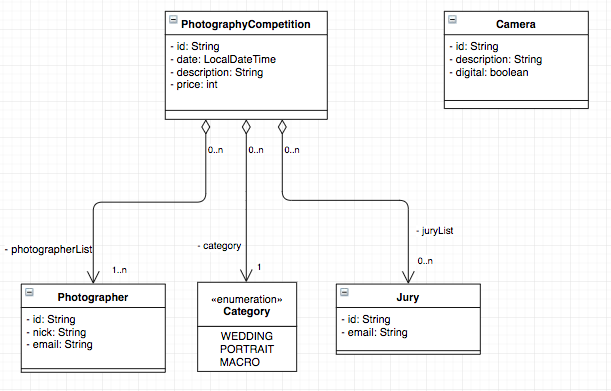
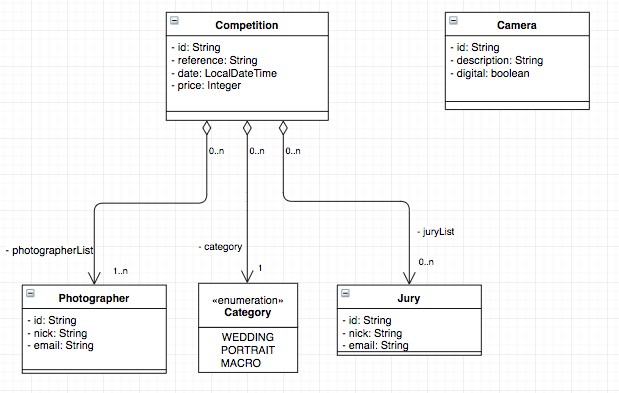
updated diagram inheritance

diff --git a/README.md b/README.md
@@ -14,6 +14,8 @@ A continuación, se muestra el escenario escogido para el desarrollo de ésta pr
 ## Diseño de entidades
 ![entities](https://github.com/AngelicaGuaman/APAW.EPC1.angelica.guaman/blob/master/docs/entities/entities.png)
 
+## Diseño de entidades (con Herencia)
+![entities-inheritance](https://github.com/AngelicaGuaman/APAW.EPC1.angelica.guaman/blob/develop/docs/entities/entities-inheritance.png)
 
 ### Tecnologías necesarias
 * Java
